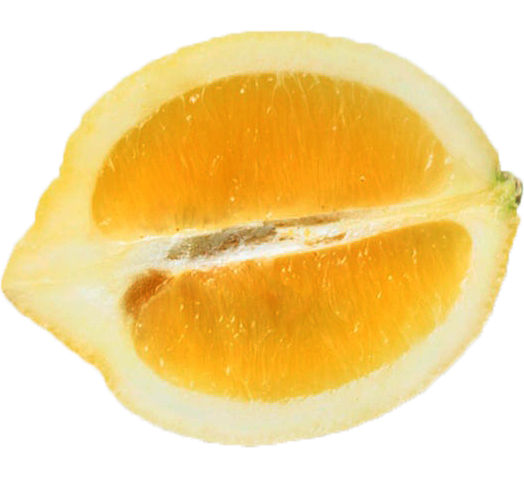
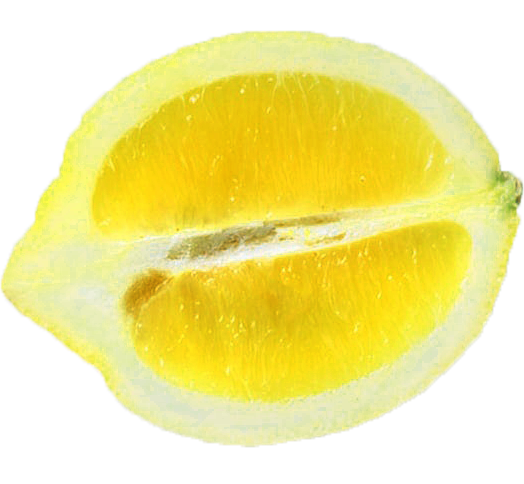
added glow to the basic counters and added brightness to the yellow fruit counter

diff --git a/assets/javascript/javascript-classic.js b/assets/javascript/javascript-classic.js
@@ -118,12 +118,12 @@ var holeCounter = '';
 
 $('#basic-counter-inventory-select').on('click', function () {
     if (gameStarted == false) {
-        redCounter = '<div class="basic-red-counter basic-counter"></div>';
-        greenCounter = '<div class="basic-green-counter basic-counter"></div>';
-        yellowCounter = '<div class="basic-yellow-counter basic-counter"></div>';
-        blueCounter = '<div class="basic-blue-counter basic-counter"></div>';
-        orangeCounter = '<div class="basic-orange-counter basic-counter"></div>';
-        whiteCounter = '<div class="basic-white-counter basic-counter"></div>';
+        redCounter = '<div class="basic-red-counter basic-counter red-glow"></div>';
+        greenCounter = '<div class="basic-green-counter basic-counter green-glow"></div>';
+        yellowCounter = '<div class="basic-yellow-counter basic-counter yellow-glow"></div>';
+        blueCounter = '<div class="basic-blue-counter basic-counter blue-glow"></div>';
+        orangeCounter = '<div class="basic-orange-counter basic-counter orange-glow"></div>';
+        whiteCounter = '<div class="basic-white-counter basic-counter white-glow"></div>';
     }
 });
 
@@ -138,9 +138,19 @@ $('#classic-counter-inventory-select').on('click', function () {
     }
 });
 
+$('#fruit-counter-inventory-select').on('click', function () {
+    if (gameStarted == false) {  
+        redCounter = '<img src="assets/images/red-fruit-counter.png" class="counter-noshadow">';
+        greenCounter = '<img src="assets/images/green-fruit-counter.png" class="counter-noshadow">';
+        yellowCounter = '<img src="assets/images/yellow-fruit-counter.png" class="counter-noshadow">';
+        blueCounter = '<img src="assets/images/blue-fruit-counter.png" class="counter-noshadow">';
+        orangeCounter = '<img src="assets/images/orange-fruit-counter.png" class="counter-noshadow">';
+        whiteCounter = '<img src="assets/images/white-fruit-counter.png" class="counter-noshadow">';
+    }
+});
+
 $('#candy-counter-inventory-select').on('click', function () {
     if (gameStarted == false) {
-        $('.counter').css('box-shadow','')
         redCounter = '<img src="assets/images/red-candy-counter.png" class="counter">';
         greenCounter = '<img src="assets/images/green-candy-counter.png" class="counter">';
         yellowCounter = '<img src="assets/images/yellow-candy-counter.png" class="counter">';
@@ -152,13 +162,12 @@ $('#candy-counter-inventory-select').on('click', function () {
 
 $('#gem-counter-inventory-select').on('click', function () {
     if (gameStarted == false) {
-        $('.counter').css('box-shadow','')
-        redCounter = '<img src="assets/images/red-gem-counter.png" class="counter-gem">';
-        greenCounter = '<img src="assets/images/green-gem-counter.png" class="counter-gem">';
-        yellowCounter = '<img src="assets/images/yellow-gem-counter.png" class="counter-gem">';
-        blueCounter = '<img src="assets/images/blue-gem-counter.png" class="counter-gem">';
-        orangeCounter = '<img src="assets/images/orange-gem-counter.png" class="counter-gem">';
-        whiteCounter = '<img src="assets/images/white-gem-counter.png" class="counter-gem">';
+        redCounter = '<img src="assets/images/red-gem-counter.png" class="counter-noshadow">';
+        greenCounter = '<img src="assets/images/green-gem-counter.png" class="counter-noshadow">';
+        yellowCounter = '<img src="assets/images/yellow-gem-counter.png" class="counter-noshadow">';
+        blueCounter = '<img src="assets/images/blue-gem-counter.png" class="counter-noshadow">';
+        orangeCounter = '<img src="assets/images/orange-gem-counter.png" class="counter-noshadow">';
+        whiteCounter = '<img src="assets/images/white-gem-counter.png" class="counter-noshadow">';
     }
 });
 

diff --git a/assets/style/style.css b/assets/style/style.css
@@ -285,12 +285,36 @@ h6 {
     box-shadow:2px 2px 2px 1px rgba(0, 0, 0, 0.2);
 }
 
-.counter-gem {
+.counter-noshadow {
     width:26px;
     height:26px;
     position:relative;
     right:7px;
     bottom:8px;
+}
+
+.red-glow {
+    box-shadow:0px 0px 7px 7px rgba(255, 102, 102, 0.5);
+}
+
+.green-glow {
+    box-shadow:0px 0px 7px 7px rgba(105, 255, 102, 0.5);
+}
+
+.yellow-glow {
+    box-shadow:0px 0px 7px 7px rgba(255, 250, 102, 0.5);
+}
+
+.blue-glow {
+    box-shadow:0px 0px 7px 7px rgba(102, 222, 255, 0.5);
+}
+
+.orange-glow {
+    box-shadow:0px 0px 7px 7px rgba(255, 194, 102, 0.5);
+}
+
+.white-glow {
+    box-shadow:0px 0px 7px 7px rgba(255, 255, 255, 0.5);
 }
 
 .hole-counter {

diff --git a/classic-mastermind.html b/classic-mastermind.html
@@ -354,7 +354,7 @@
                                     id="classic-counter-inventory-select">
                                     <div id="classic-counter-inventory"></div>
                                 </div>
-                                <div class="inventory-sections inventory-background-classic-theme">
+                                <div class="inventory-sections inventory-background-classic-theme" id="fruit-counter-inventory-select">
                                     <i class="fas fa-lock"></i>
                                 </div>
                                 <div class="inventory-sections inventory-background-classic-theme" id="candy-counter-inventory-select">
